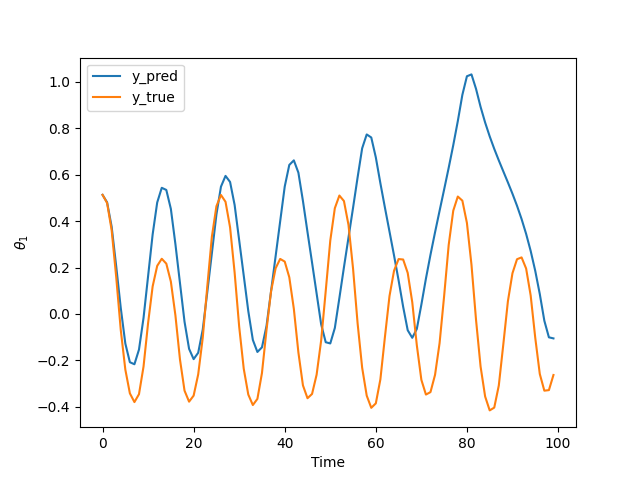
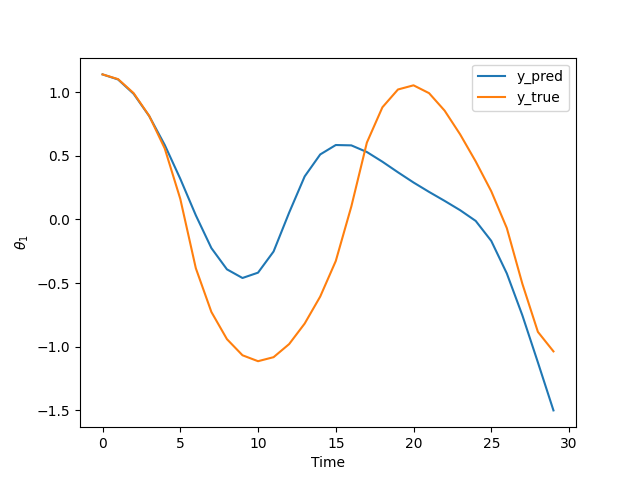
LNN for doublepenmu

diff --git a/LNN/ori_v1_7/predict2.py b/LNN/ori_v1_7/predict2.py
@@ -2,13 +2,12 @@ import random
 from functools import partial
 
 import numpy as np
-import scipy.io
 import torch
 from matplotlib import pyplot as plt
 from scipy.integrate import odeint
 
-from physics import kinetic_energy
-from physics import potential_energy, analytical_fn
+from physics import analytical_fn
+from physics import analytical_fn_NoneVector
 from trainer import Trainer
 from utils import get_device, to_numpy, to_tensor
 
@@ -26,13 +25,14 @@ def init_random_state(random_seed):
     torch.backends.cudnn.benchmark = True
 
 
-
 # model
-model = torch.load('result/model_final.pkl').to(device)
+# model = torch.load('result/model_final.pkl').to(device)
+model = torch.load('result/model_final.pkl', map_location=torch.device('cpu')).to(device)
 
 # trainer
 trainer = Trainer()
 trainer.model = model
+
 
 def get_pred_data():
     y0 = np.concatenate([
@@ -41,19 +41,23 @@ def get_pred_data():
     ], axis=1)
     return y0
 
+
 def baseline_eom(baseline, state, t=None):
     q, q_t = np.split(state, 2)
     q = q % (2 * np.pi)
     q_tt = baseline(q, q_t)
     return np.concatenate([q_t, q_tt])
 
+
 def analytical_baseline(q, q_t):
-    q_tt = analytical_fn(np.concatenate([q, q_t])[None,:])[:,2:4]
+    q_tt = analytical_fn(np.concatenate([q, q_t])[None, :])[:, 2:4]
     return np.squeeze(q_tt)
 
+
 def learned_dynamics(q, q_t):
-    q_tt = trainer.predict(torch.unsqueeze(to_tensor(q),0),torch.unsqueeze(to_tensor(q_t),0))
+    q_tt = trainer.predict(torch.unsqueeze(to_tensor(q), 0), torch.unsqueeze(to_tensor(q_t), 0))
     return to_numpy(torch.squeeze(q_tt))
+
 
 def testone_dynamics():
     # data
@@ -64,12 +68,10 @@ def testone_dynamics():
     y0 = get_pred_data()
     y0 = np.squeeze(y0)
 
-
-
-    true = odeint(partial(baseline_eom, analytical_baseline), y0, np.linspace(0, t_span[1], num=frames))
+    true = odeint(analytical_fn_NoneVector, y0, np.linspace(0, t_span[1], num=frames), rtol=1e-10, atol=1e-10)
     pred = odeint(partial(baseline_eom, learned_dynamics), y0, np.linspace(0, t_span[1], num=frames))
 
-    error = np.sum(np.abs(true-pred))
+    error = np.sum(np.abs(true - pred))
 
     plt.figure()
     plt.plot(pred[:100, 0], label="y_pred")
@@ -79,6 +81,7 @@ def testone_dynamics():
     plt.legend()
     plt.savefig('result/theta_1.png')
     plt.show()
+
 
 for random_seed in range(20, 100):
     init_random_state(random_seed)

diff --git a/LNN/ori_v1_7/getSomeTrueData.py b/LNN/ori_v1_7/getSomeTrueData.py
@@ -1,0 +1,82 @@
+import random
+from functools import partial
+
+import numpy as np
+import scipy.io
+import torch
+from matplotlib import pyplot as plt
+from scipy.integrate import odeint
+
+from physics import analytical_fn
+from utils import get_device
+
+device = get_device()
+
+
+def init_random_state():
+    random_seed = 3404
+    torch.manual_seed(random_seed)
+    torch.cuda.manual_seed_all(random_seed)
+    torch.cuda.manual_seed(random_seed)
+    np.random.seed(random_seed)  # Numpy module.
+    random.seed(random_seed)  # Python random module.
+    torch.backends.cudnn.deterministic = True  # speed up computation
+    torch.backends.cudnn.benchmark = True
+
+
+init_random_state()
+
+if __name__ == '__main__':
+
+    sameples = 1
+    y0 = np.concatenate([np.random.uniform(size=(sameples, 2)) * 2.0 * np.pi,
+                         (np.random.uniform(size=(sameples, 2)) * 0.1)
+                         ], axis=1)
+
+    y0 = np.squeeze(y0, 0)
+
+    fps = 10
+    t_span = [0, 10]
+    frames = int(fps * (t_span[1] - t_span[0]))
+
+    q_tt_map = {}
+
+    q_list = []
+
+
+    def baseline_eom(baseline, state, t=None):
+        q, q_t = np.split(state, 2)
+        q = q % (2 * np.pi)
+        q_tt = baseline(q, q_t)
+        return np.concatenate([q_t, q_tt])
+
+
+    def analytical_baseline(q, q_t):
+        q_tt = analytical_fn(np.concatenate([q, q_t]))[2:4]
+        q_tt_map[str(q) + str(q_t)] = q_tt
+        q_list.append(np.concatenate([q, q_t, q_tt]))
+        return q_tt
+
+
+    def learned_dynamics(q, q_t):
+        try:
+            q_tt = q_tt_map[str(q) + str(q_t)]
+        except:
+            q_tt = analytical_fn(np.concatenate([q, q_t]))[2:4]
+        return q_tt
+
+
+    # Double pendulum dynamics via analytical forces taken from Diego's blog
+    true = odeint(partial(baseline_eom, analytical_baseline), y0, np.linspace(0, t_span[1], num=frames))
+    pred = odeint(partial(baseline_eom, learned_dynamics), y0, np.linspace(0, t_span[1], num=frames))
+
+    plt.figure()
+    plt.plot(pred[:500, 0], label="y_pred")
+    plt.plot(true[:500, 0], label="y_true")
+    plt.ylabel(r'$\theta‘_1$ error')
+    plt.xlabel('Time')
+    plt.legend()
+    plt.show()
+
+    q_list = np.array(q_list)
+    scipy.io.savemat('data/double_pendulum_data.mat', {'y0': y0, 'q_list': q_list})

diff --git a/LNN/ori_v1_7/getSomeTrueData2.py b/LNN/ori_v1_7/getSomeTrueData2.py
@@ -1,0 +1,76 @@
+import random
+from functools import partial
+
+import numpy as np
+import torch
+from matplotlib import pyplot as plt
+from scipy.integrate import odeint
+
+from physics import analytical_fn
+from utils import get_device
+
+device = get_device()
+
+
+def one_epoch(random_seed):
+    def init_random_state(random_seed):
+        random_seed = random_seed
+        torch.manual_seed(random_seed)
+        torch.cuda.manual_seed_all(random_seed)
+        torch.cuda.manual_seed(random_seed)
+        np.random.seed(random_seed)  # Numpy module.
+        random.seed(random_seed)  # Python random module.
+        torch.backends.cudnn.deterministic = True  # speed up computation
+        torch.backends.cudnn.benchmark = True
+
+    init_random_state(random_seed)
+
+    sameples = 1
+    y0 = np.concatenate([np.random.uniform(size=(sameples, 2)) * 2.0 * np.pi,
+                         (np.random.uniform(size=(sameples, 2)) * 0.1)
+                         ], axis=1)
+
+    y0 = np.squeeze(y0, 0)
+
+    fps = 10
+    t_span = [0, 10]
+    frames = int(fps * (t_span[1] - t_span[0]))
+
+    q_tt_map = {}
+
+    q_list = []
+
+    def baseline_eom(baseline, state, t=None):
+        q, q_t = np.split(state, 2)
+        q = q % (2 * np.pi)
+        q_tt = baseline(q, q_t)
+        return np.concatenate([q_t, q_tt])
+
+    def analytical_baseline(q, q_t):
+        q_tt = analytical_fn(np.concatenate([q, q_t]))[2:4]
+        q_tt_map[str(q) + str(q_t)] = q_tt
+        q_list.append(np.concatenate([q, q_t, q_tt]))
+        return q_tt
+
+    def learned_dynamics(q, q_t):
+        try:
+            q_tt = q_tt_map[str(q) + str(q_t)]
+        except:
+            q_tt = analytical_fn(np.concatenate([q, q_t]))[2:4]
+        return q_tt
+
+    # Double pendulum dynamics via analytical forces taken from Diego's blog
+    true = odeint(partial(baseline_eom, analytical_baseline), y0, np.linspace(0, t_span[1], num=frames))
+
+    plt.figure()
+    plt.plot(true[:500, 0], label="y_true")
+    plt.ylabel(r'$\theta‘_1$ error')
+    plt.xlabel('Time')
+    plt.legend()
+    plt.savefig("result/choiceseed" + str(random_seed) + ".jpg")
+    plt.show()
+
+
+if __name__ == '__main__':
+    for i in range(1000, 3001):
+        one_epoch(i)

diff --git a/LNN/ori_v1_7/predict.py b/LNN/ori_v1_7/predict.py
@@ -2,13 +2,11 @@ import random
 from functools import partial
 
 import numpy as np
-import scipy.io
 import torch
 from matplotlib import pyplot as plt
 from scipy.integrate import odeint
 
-from physics import kinetic_energy
-from physics import potential_energy, analytical_fn
+from physics import analytical_fn_NoneVector
 from trainer import Trainer
 from utils import get_device, to_numpy, to_tensor
 
@@ -36,19 +34,18 @@ def get_pred_data():
     ], axis=1)
     return y0
 
+
 def baseline_eom(baseline, state, t=None):
     q, q_t = np.split(state, 2)
     q = q % (2 * np.pi)
     q_tt = baseline(q, q_t)
     return np.concatenate([q_t, q_tt])
 
-def analytical_baseline(q, q_t):
-    q_tt = analytical_fn(np.concatenate([q, q_t])[None,:])[:,2:4]
-    return np.squeeze(q_tt)
 
 def learned_dynamics(q, q_t):
-    q_tt = trainer.predict(torch.unsqueeze(to_tensor(q),0),torch.unsqueeze(to_tensor(q_t),0))
+    q_tt = trainer.predict(torch.unsqueeze(to_tensor(q), 0), torch.unsqueeze(to_tensor(q_t), 0))
     return to_numpy(torch.squeeze(q_tt))
+
 
 if __name__ == '__main__':
     # data
@@ -60,16 +57,18 @@ if __name__ == '__main__':
     y0 = np.squeeze(y0)
 
     # model
-    model = torch.load('result/model_final.pkl').to(device)
+    # model = torch.load('result/model_final.pkl').to(device)
+    model = torch.load('result/model_final.pkl', map_location=torch.device('cpu')).to(device)
 
     # trainer
     trainer = Trainer()
     trainer.model = model
 
-    true = odeint(partial(baseline_eom, analytical_baseline), y0, np.linspace(0, t_span[1], num=frames))
+    true = odeint(analytical_fn_NoneVector, y0, np.linspace(0, t_span[1], num=frames), rtol=1e-10, atol=1e-10)
+    # true = odeint(partial(baseline_eom, analytical_baseline), y0, np.linspace(0, t_span[1], num=frames))
     pred = odeint(partial(baseline_eom, learned_dynamics), y0, np.linspace(0, t_span[1], num=frames))
 
-    error = np.sum(np.abs(true-pred))
+    error = np.sum(np.abs(true - pred))
 
     plt.figure()
     plt.plot(pred[:30, 0], label="y_pred")
@@ -79,4 +78,3 @@ if __name__ == '__main__':
     plt.legend()
     plt.savefig('result/theta_1.png')
     plt.show()
-

diff --git a/LNN/ori_v1_7/physics.py b/LNN/ori_v1_7/physics.py
@@ -58,11 +58,22 @@ def lagrangian_fn(q, q_dot, m1=1, m2=1, l1=1, l2=1, g=9.8):
 
 # Double pendulum dynamics via analytical forces taken from Diego's blog
 def analytical_fn(state, t=0, m1=1, m2=1, l1=1, l2=1, g=9.8):
-    t1, t2, w1, w2 = state[:,0:1],state[:,1:2],state[:,2:3],state[:,3:4]
+    t1, t2, w1, w2 = state[:, 0:1], state[:, 1:2], state[:, 2:3], state[:, 3:4]
     a1 = (l2 / l1) * (m2 / (m1 + m2)) * np.cos(t1 - t2)
     a2 = (l1 / l2) * np.cos(t1 - t2)
     f1 = -(l2 / l1) * (m2 / (m1 + m2)) * (w2 ** 2) * np.sin(t1 - t2) - (g / l1) * np.sin(t1)
     f2 = (l1 / l2) * (w1 ** 2) * np.sin(t1 - t2) - (g / l2) * np.sin(t2)
     g1 = (f1 - a1 * f2) / (1 - a1 * a2)
     g2 = (f2 - a2 * f1) / (1 - a1 * a2)
-    return np.concatenate([w1, w2, g1, g2],1)
+    return np.concatenate([w1, w2, g1, g2], 1)
+
+
+def analytical_fn_NoneVector(state, t=0, m1=1, m2=1, l1=1, l2=1, g=9.8):
+    t1, t2, w1, w2 = state
+    a1 = (l2 / l1) * (m2 / (m1 + m2)) * np.cos(t1 - t2)
+    a2 = (l1 / l2) * np.cos(t1 - t2)
+    f1 = -(l2 / l1) * (m2 / (m1 + m2)) * (w2 ** 2) * np.sin(t1 - t2) - (g / l1) * np.sin(t1)
+    f2 = (l1 / l2) * (w1 ** 2) * np.sin(t1 - t2) - (g / l2) * np.sin(t2)
+    g1 = (f1 - a1 * f2) / (1 - a1 * a2)
+    g2 = (f2 - a2 * f1) / (1 - a1 * a2)
+    return np.stack([w1, w2, g1, g2])

diff --git a/LNN/ori_v1_7/dataset.py b/LNN/ori_v1_7/dataset.py
@@ -1,5 +1,4 @@
 import numpy as np
-import scipy.io
 import torch
 from torch.utils import data
 
@@ -21,13 +20,12 @@ class DoublePendulumData():
         self.x, self.y = self.get_derivative_dataset()
 
     def get_derivative_dataset(self):
-
         y0 = np.concatenate([
-            np.random.uniform(size=(3000*340, 2)) * 2.0 * np.pi,
-            np.random.uniform(size=(3000*340, 2)) * 0.1
+            np.random.uniform(size=(3000 * 340, 2)) * 2.0 * np.pi,
+            (np.random.uniform(size=(3000 * 340, 2)) - 0.5) * 10 * 2
         ], axis=1)
 
-        return y0 ,analytical_fn(y0)[:,2:4]
+        return y0, analytical_fn(y0)[:, 2:4]
 
 
 class DataGenerator(data.Dataset):

diff --git a/LNN/ori_v1_7/trainer.py b/LNN/ori_v1_7/trainer.py
@@ -18,7 +18,7 @@ class Trainer():
             lr=1e-3,
             weight_decay=0.001
         )
-        self.scheduler = torch.optim.lr_scheduler.MultiStepLR(self.optimizer_Adam, milestones=[150,250], gamma=0.1)
+        self.scheduler = torch.optim.lr_scheduler.MultiStepLR(self.optimizer_Adam, milestones=[150, 250], gamma=0.1)
         # Logger
         self.loss_log = []
 
